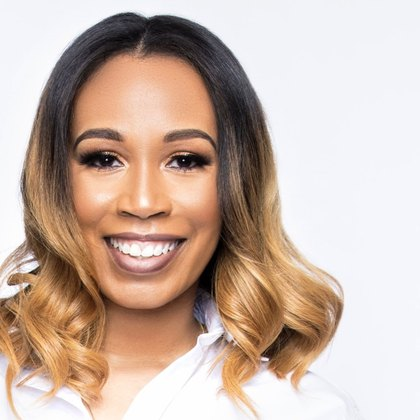
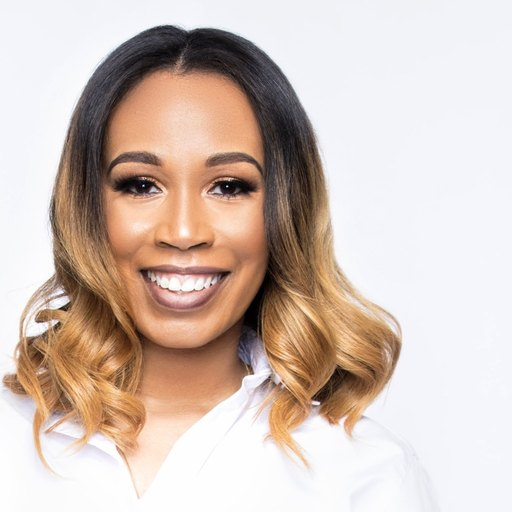
Warmer surfaces, and four small pieces of family
The page was on the mockup's cooler greys while the app had been warmer all
along; it now matches. Then: Phineas walks a spectrum progress bar along
the top of the page and turns up again in the footer, a hand-drawn loop
circles the four words the product is about, the wins wall gets a crayon
star because that card belongs to the kids, and the founder portrait grows
to 160px.

Every text run re-measured against the painted pixel on the warmer grounds,
including all nine states of the dark band.

Claude-Session: https://claude.ai/code/session_01KsLEExuY6iEf8Z9f7cyHZ4

diff --git a/index.html b/index.html
@@ -5,7 +5,7 @@
 <meta name="viewport" content="width=device-width, initial-scale=1, viewport-fit=cover">
 <title>homeroom · the family command center</title>
 <meta name="description" content="Every calendar shows you what's happening. homeroom shows you who's got it. Schedules, chores, dinners and groceries for the whole house, color-coded by person, on every phone and the kitchen wall.">
-<meta name="theme-color" content="#FBFAF8">
+<meta name="theme-color" content="#FCFAF4">
 <meta name="color-scheme" content="light">
 <meta property="og:title" content="homeroom · the family command center">
 <meta property="og:description" content="Every calendar shows you what's happening. homeroom shows you who's got it. On every phone, every computer, and the kitchen wall.">
@@ -58,7 +58,7 @@
 
 :root{
   /* surfaces */
-  --paper:#FBFAF8; --stone:#F2F1EE; --card:#FFFFFF; --sunk:#F6F5F2;
+  --paper:#FCFAF4; --stone:#F4F1E8; --card:#FFFFFF; --sunk:#F8F5EC;
   --ink:#111412; --body:#3A403C; --muted:#5E655F; --soft:#676E66;
   --line:#ECE9E4; --line-2:#E7E4DF; --line-3:#E2DED8;
   /* dark band */
@@ -118,11 +118,23 @@ button{font:inherit;color:inherit}
 .btn.ghost:hover{color:#1F4A46;filter:none}
 .btn.wide{width:100%}
 
+/* ---------- Phineas walks the page with you ---------- */
+/* A 10,000px page wants a progress indicator. Making it the spectrum means
+   it is also the "everyone" mark, and the dog leading it is the one piece of
+   charm on this page that no competitor can copy. */
+.progress{position:fixed;left:0;right:0;top:0;height:16px;z-index:50;pointer-events:none;
+  opacity:0;transition:opacity .35s ease}
+.progress.on{opacity:1}
+.progress .track{position:absolute;left:0;right:0;top:7px;height:3px;background:rgba(17,20,18,.06)}
+.progress .fill{position:absolute;left:0;top:7px;height:3px;width:0}
+.progress .paw{position:absolute;top:0;left:0;width:17px;height:17px;margin-left:-8.5px;
+  color:var(--biscuit)}
+
 /* ---------- nav: floating glass capsule ---------- */
-.navbar{position:sticky;top:0;z-index:40;padding:12px max(16px,2vw) 0}
+.navbar{position:sticky;top:0;z-index:40;padding:17px max(16px,2vw) 0}
 .nav{max-width:var(--page);margin:0 auto;height:56px;padding:0 10px 0 22px;
   display:flex;align-items:center;justify-content:space-between;gap:16px;
-  border-radius:999px;background:rgba(251,250,248,.92);
+  border-radius:999px;background:rgba(252,250,244,.92);
   backdrop-filter:blur(24px) saturate(180%);-webkit-backdrop-filter:blur(24px) saturate(180%);
   border:1px solid rgba(255,255,255,.7);
   box-shadow:0 1px 0 rgba(255,255,255,.8) inset, 0 8px 32px rgba(17,20,18,.08);
@@ -148,6 +160,15 @@ button{font:inherit;color:inherit}
   line-height:.98;font-weight:600;letter-spacing:-.048em}
 .hero .lede{margin:24px auto 0;max-width:640px;font-size:clamp(19px,2vw,24px);
   line-height:1.4;color:var(--muted);letter-spacing:-.012em}
+/* One hand mark on the page, around the four words the whole product is
+   about. One is a human touch; two would be a scrapbook. The loop is drawn
+   by script so that with reduced motion, or no script, it is simply there
+   rather than stuck at nothing. */
+.loop{position:relative;display:inline-block;white-space:nowrap;color:var(--ink)}
+.loop span{position:relative;z-index:1}
+.loop svg{position:absolute;left:-5%;top:-30%;width:110%;height:160%;overflow:visible}
+.loop path{fill:none;stroke:var(--action);stroke-width:2.4;stroke-linecap:round;
+  vector-effect:non-scaling-stroke}
 .hero-ctas{margin-top:36px;display:flex;justify-content:center;align-items:center;
   gap:12px 24px;flex-wrap:wrap}
 .fineprint{margin:14px auto 0;max-width:620px;font-size:13px;color:var(--soft)}
@@ -271,7 +292,7 @@ button{font:inherit;color:inherit}
 .person[aria-pressed="false"] .ring{filter:saturate(.92) brightness(.96)}
 .person:hover .ring{transform:translateY(-3px) scale(1.06);filter:none}
 .person[aria-pressed="true"] .ring{transform:scale(1.08);filter:none;
-  box-shadow:0 0 0 3px rgba(251,250,248,.20), 0 0 30px -2px var(--c)}
+  box-shadow:0 0 0 3px rgba(252,250,244,.20), 0 0 30px -2px var(--c)}
 .person .nm{font-size:16px;font-weight:600}
 .person .sw{font-family:'Geist Mono',ui-monospace,Menlo,monospace;font-size:11px;
   color:var(--on-night-dim);transition:color .25s}
@@ -368,11 +389,19 @@ button{font:inherit;color:inherit}
 .list .row.is-done .box svg{opacity:1;transform:none}
 .list .row:hover .box{border-color:var(--teal)}
 .list .row:active .box{transform:scale(.88)}
-.list .txt{transition:color .22s}
+.list .txt{transition:color .22s;white-space:nowrap}
 .list .row.is-done .txt{color:var(--soft);text-decoration:line-through}
-.list .lock{margin-left:auto;font-size:12px;color:#B23A20;font-weight:500;padding-left:8px}
+.list .lock{margin-left:auto;font-size:12px;color:#B23A20;font-weight:500;padding-left:10px;
+  text-align:right;line-height:1.3}
 .list .lab{font-size:11px;font-weight:600;letter-spacing:.08em;color:var(--soft)}
-.streak{padding:18px;border-radius:var(--radius-lg);background:var(--moss);color:#fff}
+.streak{position:relative;padding:18px;border-radius:var(--radius-lg);background:var(--moss);color:#fff}
+/* Drawn the way a nine-year-old draws a star: uneven points, a crayon line,
+   no fill. The wins wall is the one card on the page that belongs to the
+   kids, so it should not look like the others. */
+.streak .top{padding-right:62px}
+.streak .crayon{position:absolute;right:14px;top:12px;transform:rotate(-12deg);
+  fill:none;stroke:#FBF6E6;stroke-width:2.5;stroke-linejoin:round;stroke-linecap:round;
+  opacity:.62;pointer-events:none}
 
 /* ---------- founder ---------- */
 .founder{padding:clamp(80px,10vw,140px) 0}
@@ -385,10 +414,10 @@ button{font:inherit;color:inherit}
    section is for. At 96px it does the one job a founder photo has to do —
    confirm there is a person behind the claim — and the words lead. The
    spectrum ring is the same mark the all-family events carry. */
-.byline{display:flex;align-items:center;gap:16px}
-.byline .shot{width:96px;height:96px;border-radius:50%;flex:none;padding:3px;
+.byline{display:flex;align-items:center;gap:22px}
+.byline .shot{width:160px;height:160px;border-radius:50%;flex:none;padding:4px;
   background:conic-gradient(from 90deg,#2F6661 0 12.5%,#D9472B 12.5% 25%,#DC9A27 25% 37.5%,#E78A9B 37.5% 50%,#7A8B5C 50% 62.5%,#5E8CA7 62.5% 75%,#9B6B9E 75% 87.5%,#B5803F 87.5% 100%);
-  box-shadow:0 10px 24px -12px rgba(17,20,18,.45)}
+  box-shadow:0 16px 36px -16px rgba(17,20,18,.42)}
 .byline .shot img{width:100%;height:100%;border-radius:50%;display:block;object-fit:cover;
   background:var(--sunk)}
 
@@ -474,6 +503,9 @@ footer{background:var(--paper);padding:48px 0 56px;border-top:1px solid var(--li
 .foot .left{display:flex;align-items:baseline;gap:14px;flex-wrap:wrap}
 .foot .wordmark{font-size:22px}
 .foot .tagline{font-size:14px;color:var(--soft)}
+.pawmark{width:17px;height:17px;color:var(--biscuit);opacity:.85;cursor:help;
+  transition:transform .3s cubic-bezier(.2,1.4,.4,1)}
+.pawmark:hover{transform:rotate(-14deg) scale(1.15)}
 .foot .links{display:flex;gap:22px;flex-wrap:wrap;font-size:13px;align-items:center}
 .foot .links a{color:var(--muted)}
 .foot .c{color:var(--soft)}
@@ -484,7 +516,7 @@ footer{background:var(--paper);padding:48px 0 56px;border-top:1px solid var(--li
    were already looking at. */
 .pop{position:fixed;left:24px;bottom:24px;z-index:55;width:360px;max-width:calc(100vw - 32px);
   padding:20px 18px 16px;border-radius:26px;overflow:hidden;
-  background:rgba(251,250,248,.93);
+  background:rgba(252,250,244,.93);
   backdrop-filter:blur(26px) saturate(190%);-webkit-backdrop-filter:blur(26px) saturate(190%);
   border:1px solid rgba(255,255,255,.8);
   box-shadow:0 1px 0 rgba(255,255,255,.9) inset, var(--lift);
@@ -510,7 +542,7 @@ footer{background:var(--paper);padding:48px 0 56px;border-top:1px solid var(--li
 .pop .act.done{background:var(--sunk)!important;color:var(--muted);cursor:default}
 .pop .more{display:block;margin-top:11px;text-align:center;font-size:13px;font-weight:500;color:var(--teal)}
 .pop-again{position:fixed;right:24px;bottom:24px;z-index:54;width:54px;height:54px;border-radius:50%;
-  border:1px solid rgba(255,255,255,.8);background:rgba(251,250,248,.92);
+  border:1px solid rgba(255,255,255,.8);background:rgba(252,250,244,.92);
   backdrop-filter:blur(20px);-webkit-backdrop-filter:blur(20px);
   box-shadow:var(--lift);cursor:pointer;display:none;font-size:22px;
   transition:transform .15s}
@@ -562,6 +594,12 @@ body.pop-open .sticky{transform:translateY(160%)!important}
 <body>
 <a class="skip" href="#main">Skip to content</a>
 
+<div class="progress" id="progress" aria-hidden="true">
+  <span class="track"></span>
+  <span class="fill spectrum" id="progFill"></span>
+  <span class="paw" id="progPaw"><svg viewBox="0 0 24 24" fill="none" aria-hidden="true"><ellipse cx="12" cy="15.5" rx="4.2" ry="3.6" stroke="currentColor" stroke-width="2"/><circle cx="6.2" cy="10" r="1.8" stroke="currentColor" stroke-width="2"/><circle cx="9.6" cy="6.4" r="1.8" stroke="currentColor" stroke-width="2"/><circle cx="14.4" cy="6.4" r="1.8" stroke="currentColor" stroke-width="2"/><circle cx="17.8" cy="10" r="1.8" stroke="currentColor" stroke-width="2"/></svg></span>
+</div>
+
 <!-- ============ NAV ============ -->
 <div class="navbar" id="navbar">
   <nav class="nav" aria-label="Main">
@@ -589,7 +627,7 @@ body.pop-open .sticky{transform:translateY(160%)!important}
     <svg width="16" height="16" viewBox="0 0 16 16" fill="none" aria-hidden="true"><path d="M6 4l4 4-4 4" stroke="#3A403C" stroke-width="1.6" stroke-linecap="round" stroke-linejoin="round"/></svg>
   </a>
   <h1 class="balance">The whole house, at a glance.</h1>
-  <p class="lede balance">Every calendar shows what&rsquo;s happening. homeroom shows who&rsquo;s got it.</p>
+  <p class="lede balance">Every calendar shows what&rsquo;s happening. homeroom shows <span class="loop"><span>who&rsquo;s got it</span><svg viewBox="0 0 300 60" preserveAspectRatio="none" aria-hidden="true"><path id="heroLoop" d="M268 20C236 7 150 2 86 9 30 15 6 29 14 41c9 14 90 18 162 14 60-4 112-15 116-28 2-8-8-14-24-16"/></svg></span>.</p>
   <div class="hero-ctas">
     <a class="btn js-start" href="https://app.homeroomforfamily.com"><span>Start your <span class="js-trial-days">7</span>-day free trial</span></a>
     <a class="btn ghost" href="#whos-got-it">See how it works
@@ -857,7 +895,8 @@ body.pop-open .sticky{transform:translateY(160%)!important}
 
       <article class="cell" style="justify-content:space-between">
         <div class="streak">
-          <div style="display:flex;align-items:baseline;gap:8px"><span id="streakNum" style="font-size:48px;font-weight:600;letter-spacing:-.05em;line-height:1">15</span><span style="font-size:14px;font-weight:500;opacity:.9">day reading streak</span></div>
+          <svg class="crayon" width="56" height="56" viewBox="0 0 60 60" aria-hidden="true"><path d="M31 5 L38.5 21 L56 24.5 L43 36.5 L46.5 55 L30 45.5 L13 56 L17.5 37 L4 23 L23 20.5 Z"/></svg>
+          <div class="top" style="display:flex;align-items:baseline;gap:8px"><span id="streakNum" style="font-size:48px;font-weight:600;letter-spacing:-.05em;line-height:1">15</span><span style="font-size:14px;font-weight:500;opacity:.9">day reading streak</span></div>
           <div style="margin-top:10px;font-size:15px;line-height:1.4">Josiah is on a 15-day streak and unbearably smug about it.</div>
         </div>
         <div>
@@ -895,7 +934,7 @@ body.pop-open .sticky{transform:translateY(160%)!important}
       <span class="kicker">BUILT BY A MOM, FOR THE WHOLE HOUSE</span>
       <blockquote class="balance">&ldquo;Managing a family is real work, particularly when one person carries the mental load. I build systems for enterprises, and I used the same principles to build a system for our home. It&rsquo;s made all the difference now that we all have visibility and input into the family load.&rdquo;</blockquote>
       <div class="byline">
-        <span class="shot"><img src="/endia-round.jpg" width="420" height="420"
+        <span class="shot"><img src="/endia-round.jpg" width="512" height="512"
           loading="lazy" decoding="async" alt="Endia Leonard, founder of homeroom"></span>
         <span>
           <span style="display:block;font-size:17px;font-weight:600">Endia Leonard</span>
@@ -1043,6 +1082,7 @@ body.pop-open .sticky{transform:translateY(160%)!important}
     <div class="left">
       <span class="wordmark"><span style="color:#2F6661">h</span><span style="color:#D9472B">o</span><span style="color:#DC9A27">m</span><span style="color:#E78A9B">e</span><span style="color:#3E4A40">r</span><span style="color:#2F6661">o</span><span style="color:#D9472B">o</span><span style="color:#DC9A27">m</span></span>
       <span class="tagline">household operations, shared.</span>
+      <span class="pawmark" role="img" aria-label="Phineas" title="Phineas"><svg viewBox="0 0 24 24" fill="none" aria-hidden="true"><ellipse cx="12" cy="15.5" rx="4.2" ry="3.6" stroke="currentColor" stroke-width="2"/><circle cx="6.2" cy="10" r="1.8" stroke="currentColor" stroke-width="2"/><circle cx="9.6" cy="6.4" r="1.8" stroke="currentColor" stroke-width="2"/><circle cx="14.4" cy="6.4" r="1.8" stroke="currentColor" stroke-width="2"/><circle cx="17.8" cy="10" r="1.8" stroke="currentColor" stroke-width="2"/></svg></span>
     </div>
     <div class="links">
       <a class="js-start" href="https://app.homeroomforfamily.com">Sign in</a>
@@ -1099,11 +1139,45 @@ body.pop-open .sticky{transform:translateY(160%)!important}
   all('.js-start').forEach(function (a) { a.href = CONFIG.appUrl; });
   all('.js-trial-days').forEach(function (e) { e.textContent = CONFIG.trialDays; });
 
-  // ── Nav shadow once you leave the top ────────────────────
-  var navbar = $('navbar');
-  var onScroll = function () { navbar.classList.toggle('stuck', window.scrollY > 8); };
+  // ── Nav shadow, and Phineas walking the page ─────────────
+  var navbar = $('navbar'), prog = $('progress'), progFill = $('progFill'), progPaw = $('progPaw');
+  var ticking = false;
+
+  function onScroll() {
+    navbar.classList.toggle('stuck', window.scrollY > 8);
+    prog.classList.toggle('on', window.scrollY > 90);
+    var room = document.documentElement.scrollHeight - window.innerHeight;
+    var pct = room > 0 ? Math.min(1, Math.max(0, window.scrollY / room)) : 0;
+    progFill.style.width = (pct * 100) + '%';
+    progPaw.style.left = (pct * 100) + '%';
+    // a step every 2% of the page, so the paw reads as walking rather than sliding
+    if (!reduceMotion) {
+      progPaw.style.transform = 'rotate(' + (Math.floor(pct * 50) % 2 ? 13 : -13) + 'deg)';
+    }
+  }
+  function requestScroll() {
+    if (ticking) return;
+    ticking = true;
+    requestAnimationFrame(function () { onScroll(); ticking = false; });
+  }
   onScroll();
-  window.addEventListener('scroll', onScroll, { passive: true });
+  window.addEventListener('scroll', requestScroll, { passive: true });
+  window.addEventListener('resize', requestScroll, { passive: true });
+
+  // ── The hand loop in the hero ────────────────────────────
+  // Drawn rather than hardcoded: the dash length is the real path length, and
+  // it is only applied when we are going to animate. With reduced motion or
+  // no script the loop is simply there, fully drawn.
+  var heroLoop = document.getElementById('heroLoop');
+  if (heroLoop && !reduceMotion && heroLoop.getTotalLength) {
+    var len = heroLoop.getTotalLength();
+    heroLoop.style.strokeDasharray = len;
+    heroLoop.style.strokeDashoffset = len;
+    requestAnimationFrame(function () {
+      heroLoop.style.transition = 'stroke-dashoffset 1.05s cubic-bezier(.4,0,.2,1) .5s';
+      heroLoop.style.strokeDashoffset = '0';
+    });
+  }
 
   // ── Pricing ──────────────────────────────────────────────
   var fmt = function (n) { return '$' + (Number.isInteger(n) ? n : n.toFixed(2)); };
@@ -1453,7 +1527,7 @@ body.pop-open .sticky{transform:translateY(160%)!important}
         b.textContent = '✓ Claimed. Everyone’s phone just updated.';
         b.classList.add('done');
         $('pop-chip').innerHTML = dot('#2F6661', 'E') + 'Endia’s got it';
-        burst(pop, ['#5E8CA7', '#2F6661', '#FBFAF8']);
+        burst(pop, ['#5E8CA7', '#2F6661', '#FCFAF4']);
       } },
 
     { band: '#7A8B5C', lab: '🎉 New on the wins wall',
@@ -1483,7 +1557,7 @@ body.pop-open .sticky{transform:translateY(160%)!important}
       go: function (b, pop) {
         b.textContent = 'Handled ✓ The whole house can see it.';
         b.classList.add('done');
-        burst(pop, ['#B5803F', '#DC9A27', '#FBFAF8']);
+        burst(pop, ['#B5803F', '#DC9A27', '#FCFAF4']);
       } }
   ];
 
